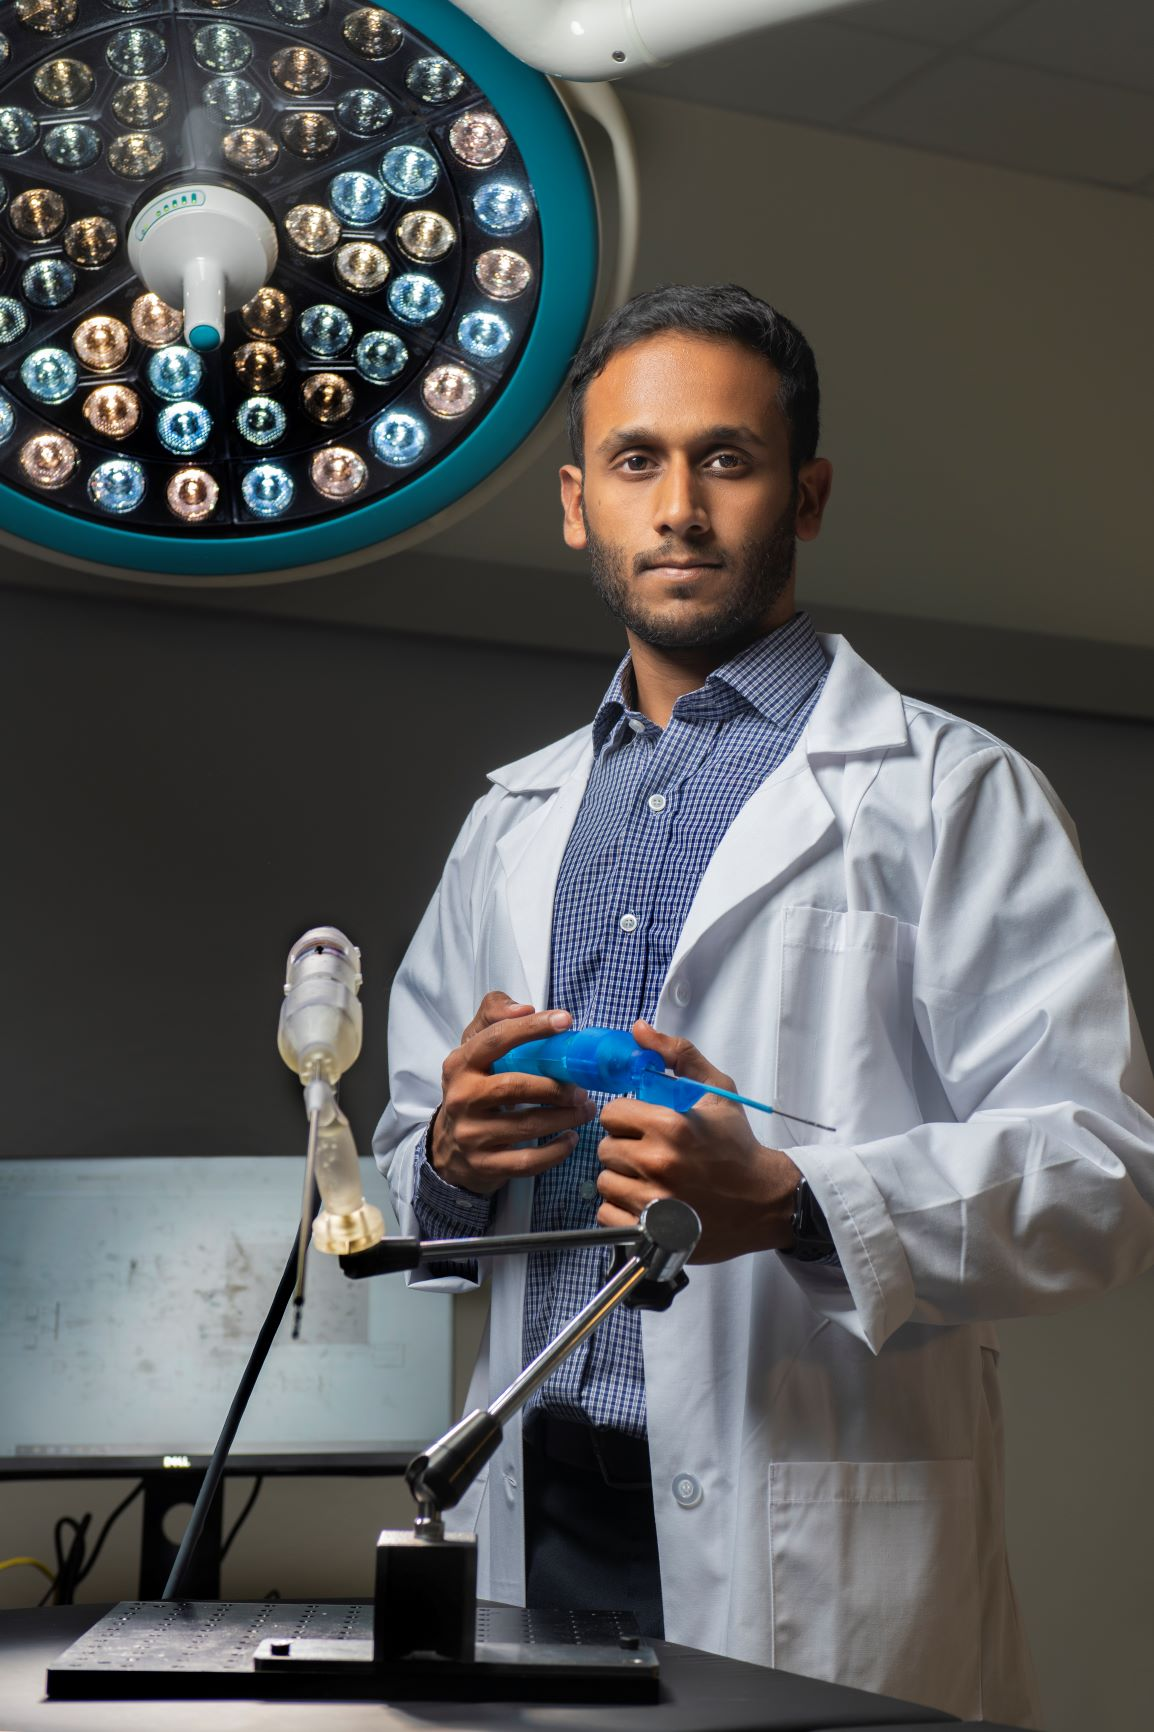
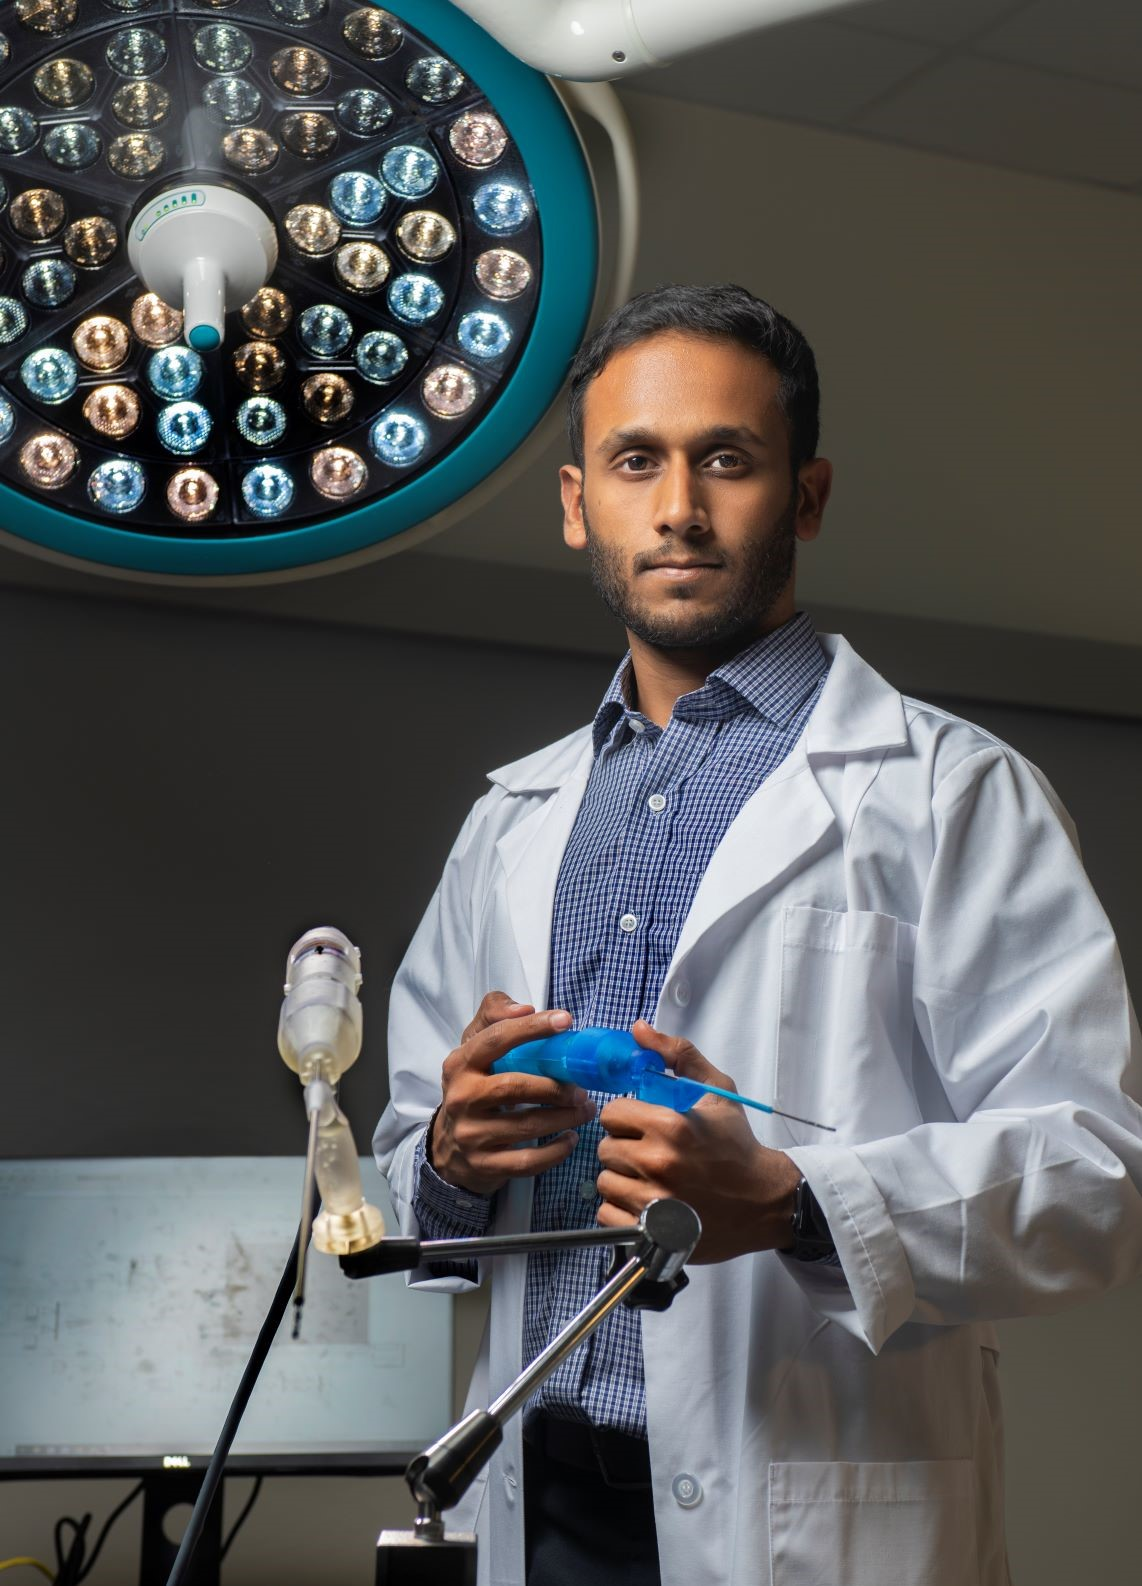
image_changes

diff --git a/_pages/about.md b/_pages/about.md
@@ -7,7 +7,7 @@ redirect_from:
   - /about/
   - /about.html
 ---
-<img align="right" src="https://yashchitalia.github.io/images/yash_chitalia_homepage.jpg" alt="Photo" style="width: 250px; border-radius: 10px; padding: 8px 8px 8px 8px"/>
+<img align="right" src="https://yashchitalia.github.io/images/yash_chitalia_homepage.jpg" alt="Photo" style="width: 220px; border-radius: 10px; padding: 8px 8px 8px 8px"/>
 I’m a Ph.D. student in the [Medical Robotics and Automation Laboratory](https://robomed.gatech.edu/) at the [Georgia Institute of Technology](https://www.gatech.edu/).
 I am interested in the design, modeling and control of surgical robots. 
 Before joining the lab, 
